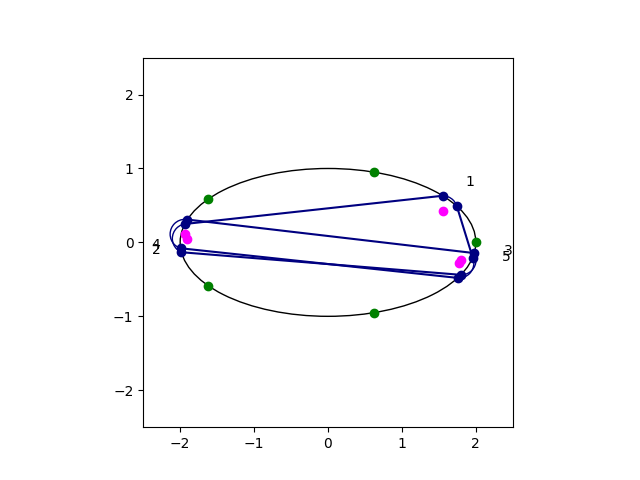
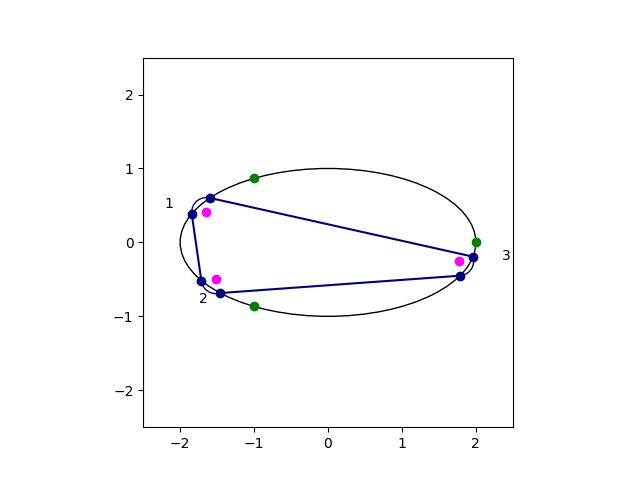
formatted

diff --git a/main.py b/main.py
@@ -15,15 +15,15 @@ if __name__ == "__main__":
     mode = "inversemagnetic"
     type = "generatingfunction"
     subdir = "ellipse"
-    
-    exec = "minimize"
+
+    exec = "generate"
 
     if exec == "generate":
         generate_dataset(a,
                          b,
                          mu,
-                         10000,
-                         "validate10k.npy",
+                         100000,
+                         "train100k.npy",
                          cs=cs,
                          subdir=subdir,
                          mode=mode,
@@ -47,5 +47,5 @@ if __name__ == "__main__":
             b,
             mu,
             n_epochs=5000,
-            dir="generatingfunction/custom/inversemagnetic/ellipse/2023-03-11"
+            dir="generatingfunction/custom/classic/ellipse/2023-03-11"
         )

diff --git a/helper.py b/helper.py
@@ -284,7 +284,7 @@ class Diagnostics:
             x = np.arange(len(ex_errors)) + 1
             plt.plot(x, ex_errors, label="Exit Tangent Error")
             plt.plot(x, re_errors, label="Reenter Tangent Error")
-        
+
         plt.xticks(x, x)
         plt.legend(loc="best")
         plt.show()

diff --git a/procedures.py b/procedures.py
@@ -32,7 +32,7 @@ def minimization_procedure(a, b, mu, n_epochs=100, dir=None):
         torch.load(filename)["model_state_dict"])
 
     # number of applications of return map
-    frequency = (2, 5)
+    frequency = (1, 3)
 
     # initialize an orbit
     orbit = Orbit(a=a,
